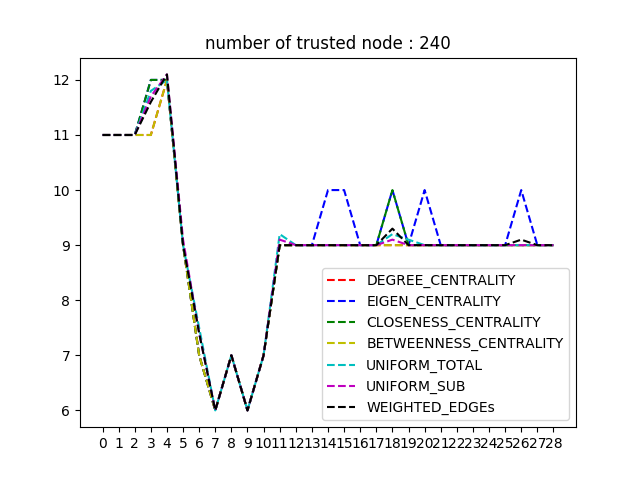
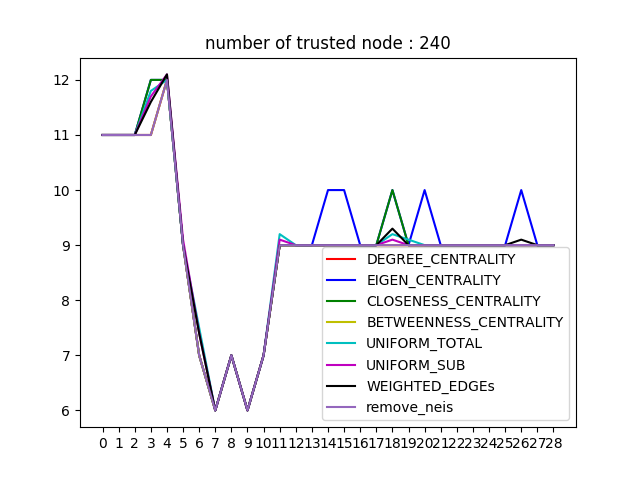
subgraph remove greedy

diff --git a/greedyRemove.py b/greedyRemove.py
@@ -6,7 +6,6 @@ from broadcasting import broadcast
 import numpy as np
 from collections import defaultdict, OrderedDict
 from operator import itemgetter
-from simulation import load_file_to_graph
 import os
 from random import shuffle
 from random import sample
@@ -14,7 +13,7 @@ from itertools import combinations
 
 MAX_NUMBER_OF_FAULT_NODES = 3
 NUMBER_OF_NODES_GO_TO_NEXT_SRC = 2 * MAX_NUMBER_OF_FAULT_NODES + 1
-
+rootdir = os.path.join(os.getcwd(), 'subgraphs')
 
 def load_file_to_greedy_graph(file_list):
     current_src_id = 0
@@ -117,6 +116,9 @@ def remove_greedy_subview_uniform(G, graph_list, t_node_set, t_node_num_list, th
 def remove_greedy_subview_ratio(G, graph_list, t_node_set, t_node_num_list, threshold_parameters):
     return
 
+# key: #trusted
+# value: list of picked id nodes
+
 
 def remove_greedy_globalview(G, t_node_set, t_node_num_list, threshold_parameters):
     result_dict = dict()
@@ -131,26 +133,27 @@ def remove_greedy_globalview(G, t_node_set, t_node_num_list, threshold_parameter
     for num_trusted in t_node_num_list:
         trusted_nodes = pick_trusted_centrality_closseness(G, num_trusted, t_node_set, threshold_to_remove)
         result_dict[num_trusted] = trusted_nodes
+        result_dict[num_trusted].update(t_node_set.copy())
     return result_dict
 
 
 def pick_trusted_centrality_closseness(G, num_trusted, t_node_set, threshold_to_remove):
-        centrality_dict = nx.closeness_centrality(G)
+    centrality_dict = nx.closeness_centrality(G)
 
-        centrality_dict = remove_src(centrality_dict, t_node_set)
+    centrality_dict = remove_src(centrality_dict, t_node_set)
 
-        centrality_dict = order_dict(centrality_dict)
+    centrality_dict = order_dict(centrality_dict)
 
-        # This can be reused once we removing all the neighors in the first round
+    # This can be reused once we removing all the neighors in the first round
+    throw_away_dict = dict()
+
+    return_trusted_nodes_list = []
+    while num_trusted > 0:
+        num_trusted = remove_trusted(G, centrality_dict, throw_away_dict, num_trusted, threshold_to_remove, return_trusted_nodes_list)
+        centrality_dict = order_dict(throw_away_dict)
         throw_away_dict = dict()
 
-        return_trusted_nodes_list = []
-        while num_trusted > 0:
-            num_trusted = remove_trusted(G, centrality_dict, throw_away_dict, num_trusted, threshold_to_remove, return_trusted_nodes_list)
-            centrality_dict = order_dict(throw_away_dict)
-            throw_away_dict = dict()
-
-        return return_trusted_nodes_list
+    return set(return_trusted_nodes_list)
 
 
 # Remove the src from being a candidate for trusted node
@@ -212,8 +215,118 @@ def order_dict(centrality_dict):
     return centrality_dict
 
 
+def load_file_to_greedy_graph(file_list):
+    current_src_id = 0
+    sub_graph_list = []
+    sub_graph_src_id = []
+    threshold_list = []
+
+    links = []
+
+    total_graph = None
+
+    for i, file in enumerate(file_list):
+        # Now we are going to concat graph from a file
+
+        # record the src id
+        sub_graph_src_id.append(current_src_id)
+
+        threshold = get_random_radius_threshold(file)
+        threshold_list.append(threshold)
+
+        # Now start building the graph
+        if i == 0:
+            total_graph, append_sub_graph = concat_two_graph(current_src_id, file)
+
+        # Other general Cases
+        else:
+            total_graph, append_sub_graph = concat_two_graph(current_src_id, file, links, total_graph)
+
+        # Append the subgraph to our list
+        sub_graph_list.append(append_sub_graph)
+
+        links = random_generate_link(current_src_id, len(total_graph.nodes))
+
+        current_src_id = len(total_graph.nodes)
+
+    return total_graph, sub_graph_list, set(sub_graph_src_id), threshold_list
+
+
+def batch_load_file_to_graph(num_of_G, num_of_g_per_G,
+                             g_type=['geo'], num_of_nodes_per_g=[300],
+                             graph_param='all', arrangement='sorted'):
+    """
+    A generator function that provides an iterator of a (G, [g, ...], {t, ...}) tuple created by load_file_to_graph()
+    :param num_of_G: the number of "concated" graphs need to be generated, if = 0, then generates all combinations
+    :param num_of_g_per_G: the number of "subgraphs" in a "concated" graph
+    :param g_type: the type of the subgraph, e.g. "geo"
+    :param num_of_nodes_per_g: e.g. [200, 300]
+    :param graph_param: 'all' or e.g. [0.15, 0.2]
+    :param arrangement: 'sorted' or 'random'
+    :return: a generator that delivers a (G, [g, ...], {t, ...}) tuple
+             up until all combination is given / num_of_G has reached
+    """
+
+    # find all paths of graphs satisfy filters above
+    graph_paths = []
+    for root, subdirs, files in os.walk(rootdir):
+        files = filter(lambda x: x.split('_')[0] in g_type, files)  # filter graph of that type
+        files = filter(lambda x: int(x.split('_')[1]) in num_of_nodes_per_g, files)  # filter graph with that many nodes
+        if graph_param != 'all':
+            files = filter(lambda x: float(x.split('_')[2]) in graph_param, files)  # filter graph with that param
+        files = map(lambda x: os.path.join(root, x), files)  # add full path to the file name
+        graph_paths.extend(files)
+
+    # check a possible exception
+    if len(graph_paths) < num_of_g_per_G:
+        raise Exception(f"subgraphs are not enough, found {len(graph_paths)} but needs at least {num_of_g_per_G}")
+
+    # sort them or shuffle them
+    if arrangement == 'sorted':
+        graph_paths = sorted(graph_paths)
+    elif arrangement == 'random':
+        shuffle(graph_paths)
+
+    # the generator function
+    if num_of_G == 0:  # if we want all combinations
+        for paths in combinations(graph_paths, num_of_g_per_G):
+            yield load_file_to_greedy_graph(list(paths))
+    else:  # if we want up to a number of combinations
+        graph_gen_counter = 0
+        for paths in combinations(graph_paths, num_of_g_per_G):
+            if graph_gen_counter >= num_of_G: return
+            yield load_file_to_greedy_graph(list(paths))
+            graph_gen_counter += 1
+
+
+def simulation_batch():
+    # {key: num of trusted; value: {key: algo enum; value: num of rounds}}
+    result_dict = defaultdict(lambda: defaultdict(lambda: []))
+    for G, g_list, t_set, threshold_list in batch_load_file_to_graph(0, 1, num_of_nodes_per_g=[300]):
+        print("*** a graph sim has started ***")
+        t_nodes_list = [i for i in range(10)]
+        t_nodes_list.extend([i for i in range(30, 271, 30)])
+
+        params_dict = remove_greedy_globalview(G, t_set, t_nodes_list, threshold_list)
+
+        for num_of_t_nodes, t_nodes_set in params_dict.items():
+            num_of_commits, num_of_rounds = broadcast(G, faulty_nodes=set(), trusted_nodes = t_nodes_set)
+            result_dict[num_of_t_nodes]['remove_greedy_globalView'].append(num_of_rounds)
+
+    # iterate the default dict to generate a normal dict for serializing
+    outside_dict = dict()
+    for k, v in result_dict.items():
+        inside_dict = dict()
+        for k2, v2 in v.items():
+            inside_dict[k2] = v2
+        outside_dict[k] = inside_dict
+    return outside_dict
+
+
 if __name__ == '__main__':
     pass
-    file_name = "/Users/yingjianwu/Desktop/broadcast/Broadcast_py/subgraphs/geo_300/geo_300_0.15_1"
-    graph, sub_graph_list, sub_graph_src_id, threshold_parameters = load_file_to_greedy_graph([file_name])
-    print(remove_greedy_globalview(graph, sub_graph_src_id, [270], threshold_parameters))
+    result_dict = simulation_batch()
+    pickle.dump(result_dict, open("remove_greedy_geo_1.p", "wb"))
+
+    # pickle.dump(open("remove_greedy_geo_1.p", "rb"))
+    # print(result_dict)

diff --git a/Graph.py b/Graph.py
@@ -38,19 +38,22 @@ def alg_compare_graph(result_dict):
     for num_trusted, small_dict in result_dict.items():
         for alg_label, rounds_list in small_dict.items():
             if alg_label == 0:
-                plt.plot(list(range(len(rounds_list))), rounds_list, 'r--', label='DEGREE_CENTRALITY')
+                plt.plot(list(range(len(rounds_list))), rounds_list, 'r', label='DEGREE_CENTRALITY')
             elif alg_label == 1:
-                plt.plot(list(range(len(rounds_list))), rounds_list, 'b--', label='EIGEN_CENTRALITY')
+                plt.plot(list(range(len(rounds_list))), rounds_list, 'b', label='EIGEN_CENTRALITY')
             elif alg_label == 2:
-                plt.plot(list(range(len(rounds_list))), rounds_list, 'g--', label='CLOSENESS_CENTRALITY')
+                plt.plot(list(range(len(rounds_list))), rounds_list, 'g', label='CLOSENESS_CENTRALITY')
             elif alg_label == 3:
-                plt.plot(list(range(len(rounds_list))), rounds_list, 'y--', label='BETWEENNESS_CENTRALITY')
+                plt.plot(list(range(len(rounds_list))), rounds_list, 'y', label='BETWEENNESS_CENTRALITY')
             elif alg_label == 4:
-                plt.plot(list(range(len(rounds_list))), rounds_list, 'c--', label='UNIFORM_TOTAL')
+                plt.plot(list(range(len(rounds_list))), rounds_list, 'c', label='UNIFORM_TOTAL')
             elif alg_label == 5:
-                plt.plot(list(range(len(rounds_list))), rounds_list, 'm--', label='UNIFORM_SUB')
+                plt.plot(list(range(len(rounds_list))), rounds_list, 'm', label='UNIFORM_SUB')
             elif alg_label == 6:
-                plt.plot(list(range(len(rounds_list))), rounds_list, 'k--', label='WEIGHTED_EDGEs')
+                plt.plot(list(range(len(rounds_list))), rounds_list, 'k', label='WEIGHTED_EDGEs')
+            elif alg_label == 'remove_greedy_globalView':
+                plt.plot(list(range(len(rounds_list))), rounds_list,  'tab:purple', label='remove_neis')
+
         plt.xticks(np.arange(0, len(rounds_list), 1.0))
         plt.legend(loc='best')
         plt.title(f"number of trusted node : {num_trusted}")
@@ -65,9 +68,16 @@ def alg_compare_graph(result_dict):
 if __name__ == '__main__':
     result_dict = pickle.load(open("/Users/yingjianwu/Desktop/broadcast/Broadcast_py/result_dict_0123.pickle", "rb"))
     result_dict_456 = pickle.load(open("/Users/yingjianwu/Desktop/broadcast/Broadcast_py/result_dict_456.pickle", "rb"))
+    result_dict_remove = pickle.load(open("/Users/yingjianwu/Desktop/broadcast/Broadcast_py/remove_greedy_geo_1.p", "rb"))
 
     for k, v in result_dict_456.items():
         small_dict_in_result_dict = result_dict[k]
         for a, b in v.items():
             small_dict_in_result_dict[a] = b
+
+    for k, v in result_dict_remove.items():
+        small_dict_in_result_dict = result_dict[k]
+        for a, b in v.items():
+            small_dict_in_result_dict[a] = b
+
     alg_compare_graph(result_dict)
